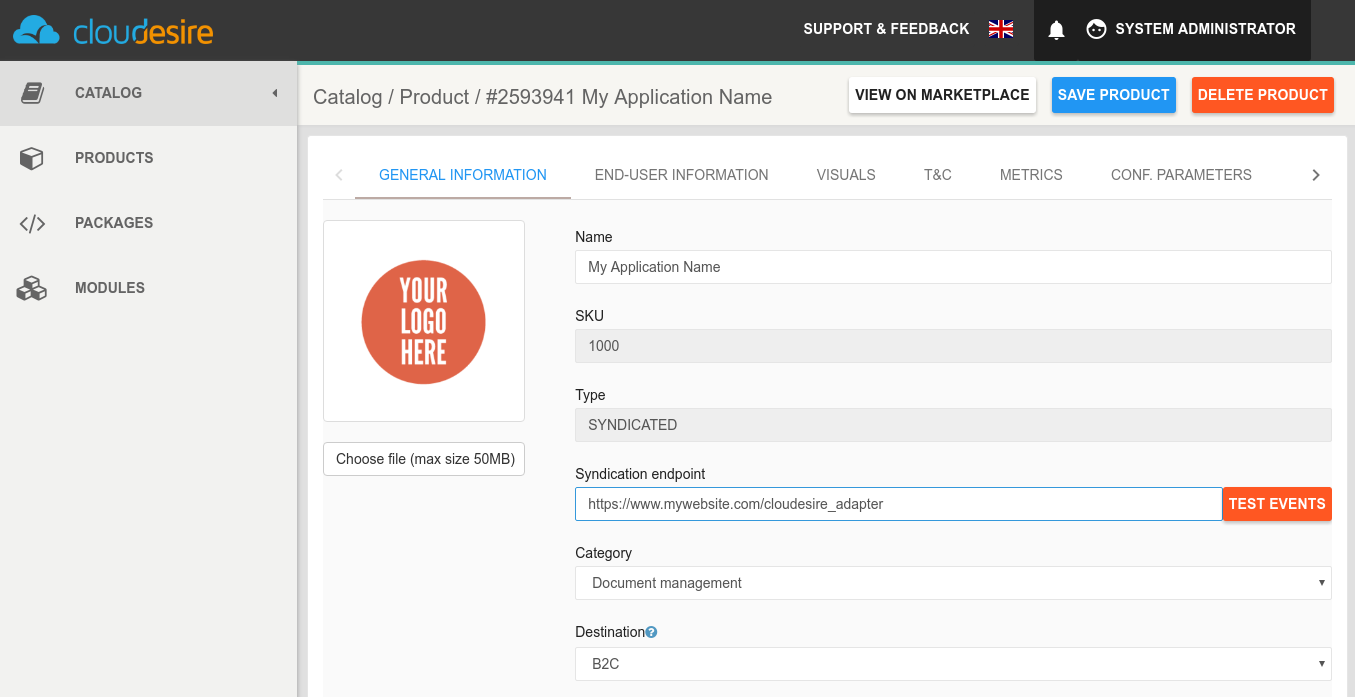
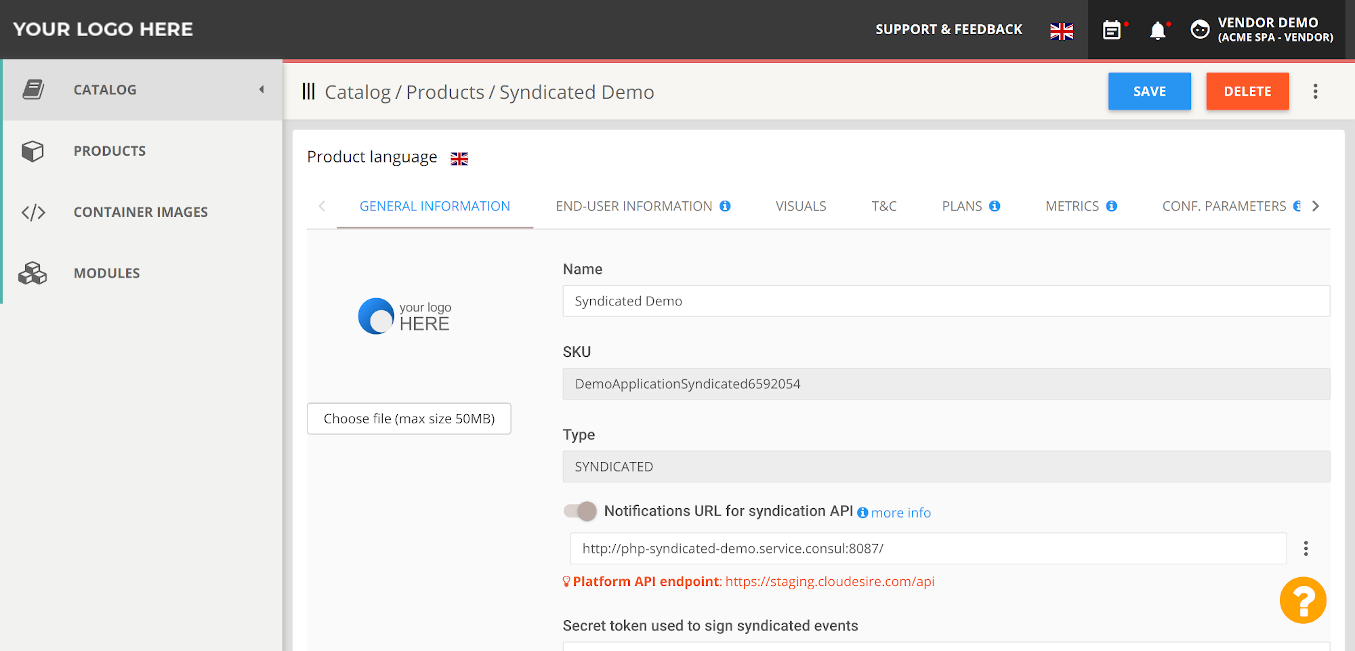
Update syndication events test button doc (#72)

diff --git a/docs/syndication.md b/docs/syndication.md
@@ -78,7 +78,7 @@ section](syndication.md#security).
 ### The "Test Events" feature
 
 If you are at the first step of developing an integration, you may find useful
-the "**Test Events"** functionality, available in the _General_ tab into Product
+the "**Test Events"** functionality, available in the hamburger menu into Product
 editing page.
 
 This button will send a test notification to your endpoint, without kicking
